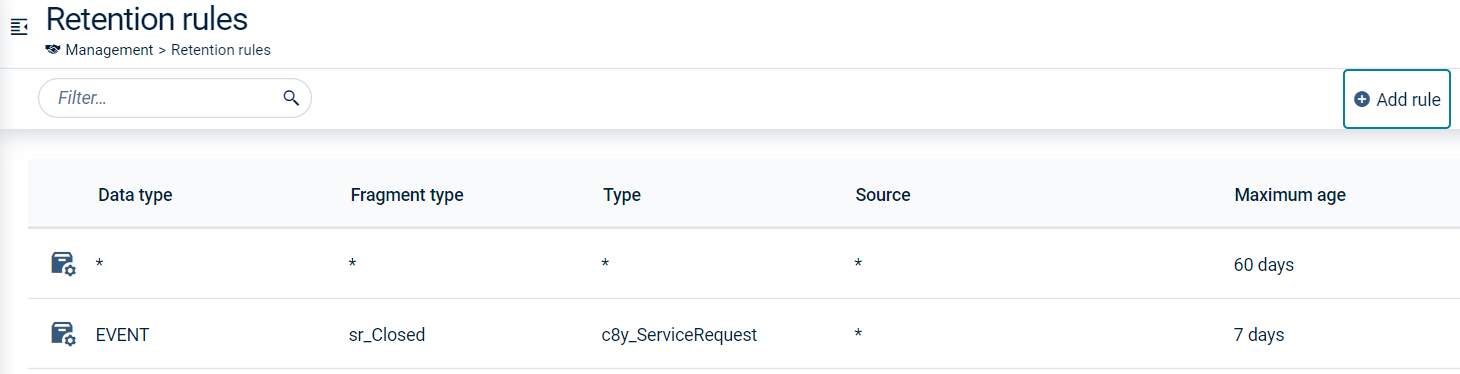
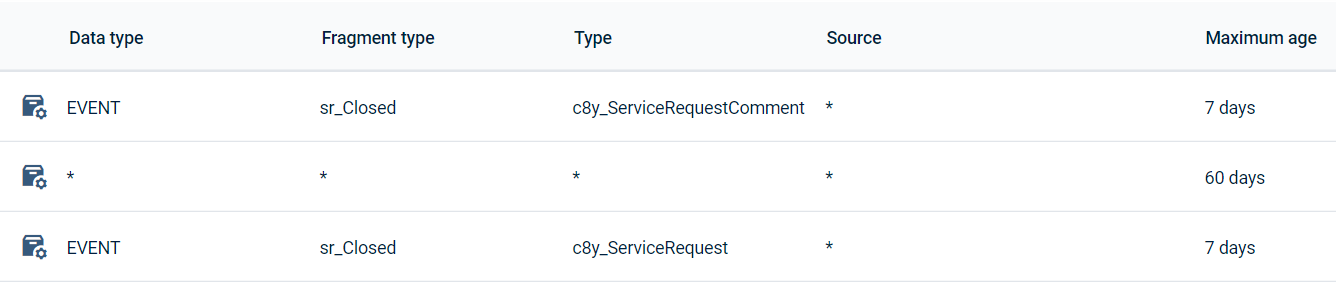
readme md updated

diff --git a/README.md b/README.md
@@ -149,24 +149,39 @@ Example:
     {
         "id": "3",
         "name": "IsWorkDone",
-        "alarmStatusTransition": "CLEARED"
+        "alarmStatusTransition": "CLEARED",
+        "isExcludeForCounter": true
     },
     {
         "id": "4",
-        "name": "Rejected"
+        "name": "Rejected",
+        "isClosedTransition": true
     },
     {
         "id": "5",
         "name": "Closed",
         "alarmStatusTransition": "CLEARED",
-        "isClosedTransition": true
+        "isClosedTransition": true,
+        "isDeactivateTransition": true
+    },
+    {
+        "id": "7",
+        "name": "Scheduled"
+    },
+    {
+        "id": "8",
+        "name": "ReadyForScheduling"
     }
 ]
 ```
 
 The property `alarmStatusTransition` defines the alarm status which will be set if this service request changes to this status.
 
-The property `isClosedTransition` defines the service request as closed in general and set the `sr_Active` to false and `sr_Closed`. This allows retention rules to be configured.
+The property `isClosedTransition` defines the service request as closed in general and set the `sr_Closed` fragment. This fragment should be used to configure retention rules for `c8y_ServiceRequest` and `c8y_ServiceRequestComment`. 
+
+The property `isDeactivateTransition` defines the service request as deactivated and set the `sr_Active` to false. This means the service request will filtered and not shown any more.
+
+The property `isExcludeForCounter` defines the service request status which shouldn't be counted. The counter is stored and maintained on the device managed object.
 
 ![Retention Rules](./docs/retention-rules.PNG)
 
